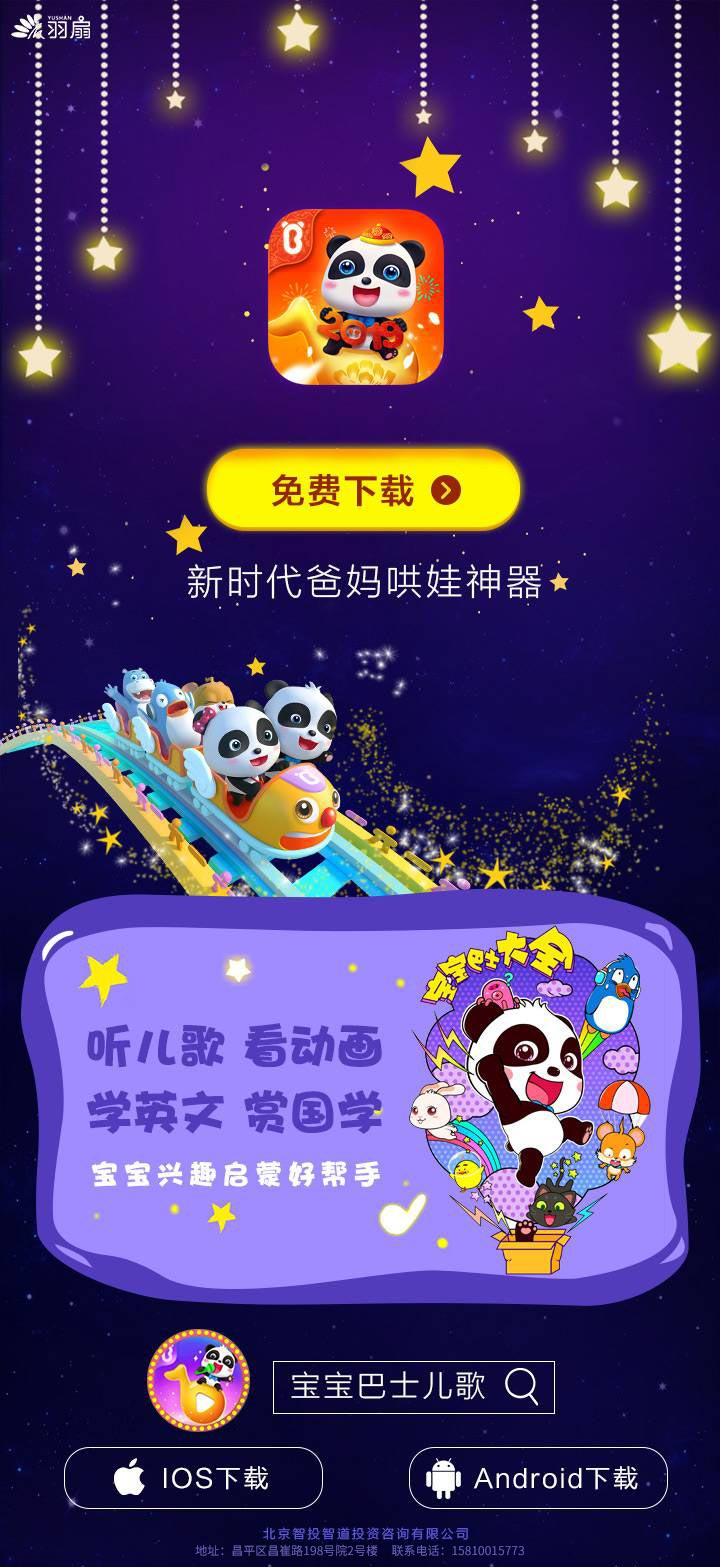
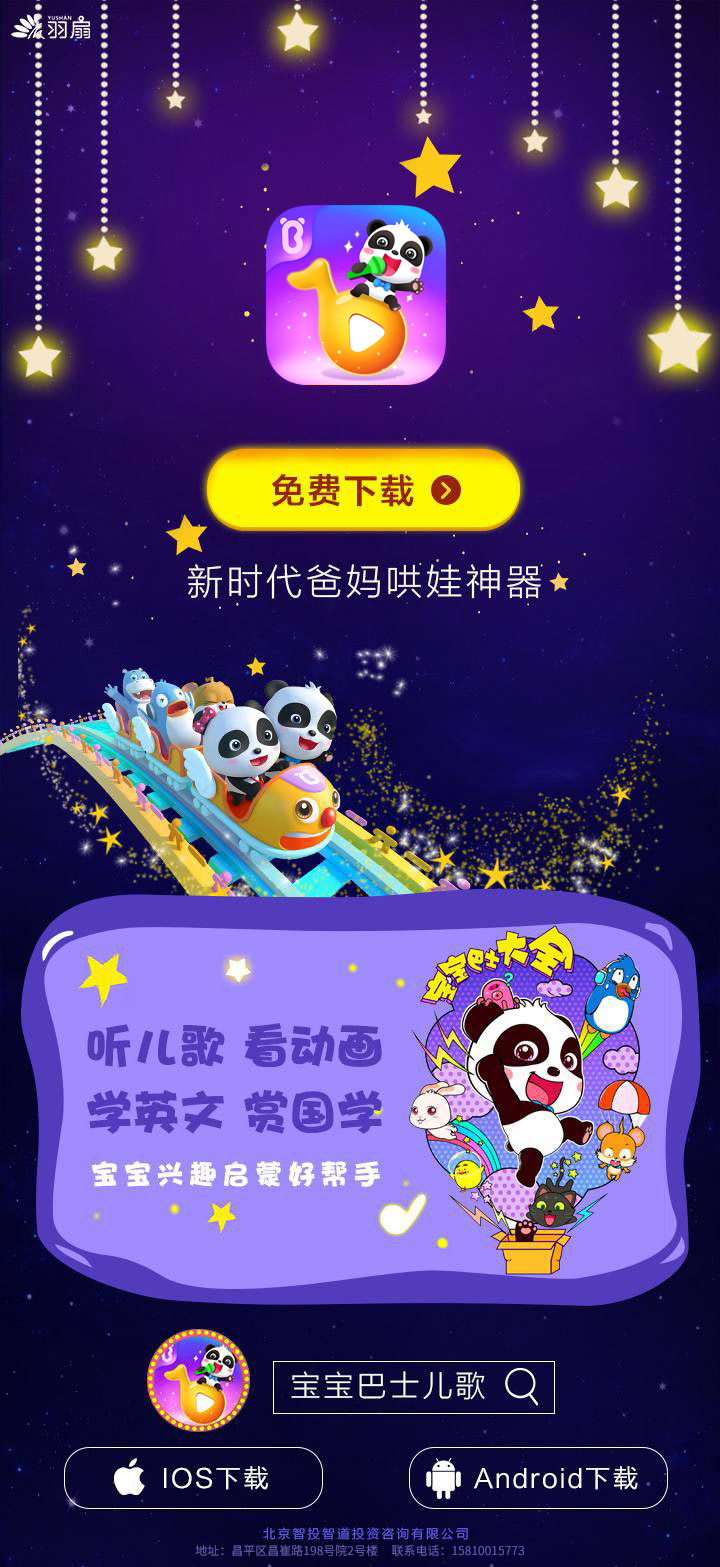
bbs

diff --git a/bbbs.zjiaozhidao.mobi/10.html b/bbbs.zjiaozhidao.mobi/10.html
@@ -31,20 +31,20 @@ var _hmt = _hmt || [];
 <body>
 			<center>
 				<div class="navImage">
-			    <img  src="https://yh.cdnweb.top/bbbs.zjiaozhidao.mobi/img/bg4.gif" alt="navbar" usemap="#imgMap" id="img">
-                <map name="imgMap" class="btnCilck"><area shape="rect" coords="480,1731,573,1826" href="javascript:;"><area shape="rect" coords="147,1734,240,1829" href="javascript:;"><area shape="rect" coords="487,1271,580,1366" href="javascript:;"><area shape="rect" coords="154,1272,247,1367" href="javascript:;">
-                  <area shape="rect" coords="83,869,630,1061" href="javascript:;">
+			    <img  src="https://yh.cdnweb.top/bbbs.zjiaozhidao.mobi/images0722/bg3.gif" alt="navbar" usemap="#imgMap" id="img">
+                <map name="imgMap" class="btnCilck"><area shape="rect" coords="478,1734,573,1829" href="javascript:;"><area shape="rect" coords="145,1735,240,1830" href="javascript:;"><area shape="rect" coords="485,1269,580,1364" href="javascript:;"><area shape="rect" coords="154,1269,249,1364" href="javascript:;">
+                  <area shape="rect" coords="85,867,626,1053" href="javascript:;">
                 </map>
 				</div> 
-			  <img src="https://yh.cdnweb.top/bbbs.zjiaozhidao.mobi/img/btn.png" alt="" name="download2" border="0" usemap="#download2Map"  id="download2" style="position:fixed;margin:0 auto;bottom:80px;left:0;right:0;width:400px;max-width: 720px;" onClick="javascript:;" >
+			<img src="https://yh.cdnweb.top/bbbs.zjiaozhidao.mobi/images0722/3btn.png" alt="" name="download2" border="0" usemap="#download2Map"  id="download2" style="position:fixed;margin:0 auto;bottom:88px;left:0;right:0;width:350px;max-width: 720px;" onClick="javascript:;" >
 <map name="download2Map"  class="btnCilck">
-<area shape="rect" coords="4,-9,725,184"  href="javascript:;"></map>
+<area shape="rect" coords="-2,-7,708,184"  href="javascript:;"></map>
 
 
 </center>
 <script>
 
-		var Android="http://app-apk.babybus.com/BceFile/ApkFile/Chants_v3.0.8_2019704_ad_release_sign.apk";//安卓下载链接
+		var Android="http://app-apk.babybus.com/BceFile/ApkFile/Chants_v3.1.0_2019715_ad01_release_sign.apk";//安卓下载链接
 		var Ios="";//ios下载链接
 
 		var btns = document.getElementsByClassName("btnCilck");

diff --git a/bbbs.zjiaozhidao.mobi/11.html b/bbbs.zjiaozhidao.mobi/11.html
@@ -31,20 +31,20 @@ var _hmt = _hmt || [];
 <body>
 			<center>
 				<div class="navImage">
-			    <img  src="https://yh.cdnweb.top/bbbs.zjiaozhidao.mobi/img/bg4.gif" alt="navbar" usemap="#imgMap" id="img">
-                <map name="imgMap" class="btnCilck"><area shape="rect" coords="480,1731,573,1826" href="javascript:;"><area shape="rect" coords="147,1734,240,1829" href="javascript:;"><area shape="rect" coords="487,1271,580,1366" href="javascript:;"><area shape="rect" coords="154,1272,247,1367" href="javascript:;">
-                  <area shape="rect" coords="83,869,630,1061" href="javascript:;">
+			    <img  src="https://yh.cdnweb.top/bbbs.zjiaozhidao.mobi/images0722/bg3.gif" alt="navbar" usemap="#imgMap" id="img">
+                <map name="imgMap" class="btnCilck"><area shape="rect" coords="478,1734,573,1829" href="javascript:;"><area shape="rect" coords="145,1735,240,1830" href="javascript:;"><area shape="rect" coords="485,1269,580,1364" href="javascript:;"><area shape="rect" coords="154,1269,249,1364" href="javascript:;">
+                  <area shape="rect" coords="85,867,626,1053" href="javascript:;">
                 </map>
 				</div> 
-			  <img src="https://yh.cdnweb.top/bbbs.zjiaozhidao.mobi/img/btn.png" alt="" name="download2" border="0" usemap="#download2Map"  id="download2" style="position:fixed;margin:0 auto;bottom:80px;left:0;right:0;width:400px;max-width: 720px;" onClick="javascript:;" >
+			<img src="https://yh.cdnweb.top/bbbs.zjiaozhidao.mobi/images0722/3btn.png" alt="" name="download2" border="0" usemap="#download2Map"  id="download2" style="position:fixed;margin:0 auto;bottom:88px;left:0;right:0;width:350px;max-width: 720px;" onClick="javascript:;" >
 <map name="download2Map"  class="btnCilck">
-<area shape="rect" coords="4,-9,725,184"  href="javascript:;"></map>
+<area shape="rect" coords="-2,-7,708,184"  href="javascript:;"></map>
 
 
 </center>
 <script>
 
-		var Android="http://app-apk.babybus.com/BceFile/ApkFile/Chants_v3.0.8_2019704_ad_release_sign.apk";//安卓下载链接
+		var Android="http://app-apk.babybus.com/BceFile/ApkFile/Chants_v3.1.0_2019715_ad01_release_sign.apk";//安卓下载链接
 		var Ios="";//ios下载链接
 
 		var btns = document.getElementsByClassName("btnCilck");

diff --git a/bbbs.zjiaozhidao.mobi/12.html b/bbbs.zjiaozhidao.mobi/12.html
@@ -31,20 +31,20 @@ var _hmt = _hmt || [];
 <body>
 			<center>
 				<div class="navImage">
-			    <img  src="https://yh.cdnweb.top/bbbs.zjiaozhidao.mobi/img/bg4.gif" alt="navbar" usemap="#imgMap" id="img">
-                <map name="imgMap" class="btnCilck"><area shape="rect" coords="480,1731,573,1826" href="javascript:;"><area shape="rect" coords="147,1734,240,1829" href="javascript:;"><area shape="rect" coords="487,1271,580,1366" href="javascript:;"><area shape="rect" coords="154,1272,247,1367" href="javascript:;">
-                  <area shape="rect" coords="83,869,630,1061" href="javascript:;">
+			    <img  src="https://yh.cdnweb.top/bbbs.zjiaozhidao.mobi/images0722/bg3.gif" alt="navbar" usemap="#imgMap" id="img">
+                <map name="imgMap" class="btnCilck"><area shape="rect" coords="478,1734,573,1829" href="javascript:;"><area shape="rect" coords="145,1735,240,1830" href="javascript:;"><area shape="rect" coords="485,1269,580,1364" href="javascript:;"><area shape="rect" coords="154,1269,249,1364" href="javascript:;">
+                  <area shape="rect" coords="85,867,626,1053" href="javascript:;">
                 </map>
 				</div> 
-			  <img src="https://yh.cdnweb.top/bbbs.zjiaozhidao.mobi/img/btn.png" alt="" name="download2" border="0" usemap="#download2Map"  id="download2" style="position:fixed;margin:0 auto;bottom:80px;left:0;right:0;width:400px;max-width: 720px;" onClick="javascript:;" >
+			<img src="https://yh.cdnweb.top/bbbs.zjiaozhidao.mobi/images0722/3btn.png" alt="" name="download2" border="0" usemap="#download2Map"  id="download2" style="position:fixed;margin:0 auto;bottom:88px;left:0;right:0;width:350px;max-width: 720px;" onClick="javascript:;" >
 <map name="download2Map"  class="btnCilck">
-<area shape="rect" coords="4,-9,725,184"  href="javascript:;"></map>
+<area shape="rect" coords="-2,-7,708,184"  href="javascript:;"></map>
 
 
 </center>
 <script>
 
-		var Android="http://app-apk.babybus.com/BceFile/ApkFile/Chants_v3.0.8_2019704_ad_release_sign.apk";//安卓下载链接
+		var Android="http://app-apk.babybus.com/BceFile/ApkFile/Chants_v3.1.0_2019715_ad01_release_sign.apk";//安卓下载链接
 		var Ios="";//ios下载链接
 
 		var btns = document.getElementsByClassName("btnCilck");

diff --git a/bbbs.zjiaozhidao.mobi/13.html b/bbbs.zjiaozhidao.mobi/13.html
@@ -31,20 +31,20 @@ var _hmt = _hmt || [];
 <body>
 			<center>
 				<div class="navImage">
-			    <img  src="https://yh.cdnweb.top/bbbs.zjiaozhidao.mobi/img/bg4.gif" alt="navbar" usemap="#imgMap" id="img">
-                <map name="imgMap" class="btnCilck"><area shape="rect" coords="480,1731,573,1826" href="javascript:;"><area shape="rect" coords="147,1734,240,1829" href="javascript:;"><area shape="rect" coords="487,1271,580,1366" href="javascript:;"><area shape="rect" coords="154,1272,247,1367" href="javascript:;">
-                  <area shape="rect" coords="83,869,630,1061" href="javascript:;">
+			    <img  src="https://yh.cdnweb.top/bbbs.zjiaozhidao.mobi/images0722/bg3.gif" alt="navbar" usemap="#imgMap" id="img">
+                <map name="imgMap" class="btnCilck"><area shape="rect" coords="478,1734,573,1829" href="javascript:;"><area shape="rect" coords="145,1735,240,1830" href="javascript:;"><area shape="rect" coords="485,1269,580,1364" href="javascript:;"><area shape="rect" coords="154,1269,249,1364" href="javascript:;">
+                  <area shape="rect" coords="85,867,626,1053" href="javascript:;">
                 </map>
 				</div> 
-			  <img src="https://yh.cdnweb.top/bbbs.zjiaozhidao.mobi/img/btn.png" alt="" name="download2" border="0" usemap="#download2Map"  id="download2" style="position:fixed;margin:0 auto;bottom:80px;left:0;right:0;width:400px;max-width: 720px;" onClick="javascript:;" >
+			<img src="https://yh.cdnweb.top/bbbs.zjiaozhidao.mobi/images0722/3btn.png" alt="" name="download2" border="0" usemap="#download2Map"  id="download2" style="position:fixed;margin:0 auto;bottom:88px;left:0;right:0;width:350px;max-width: 720px;" onClick="javascript:;" >
 <map name="download2Map"  class="btnCilck">
-<area shape="rect" coords="4,-9,725,184"  href="javascript:;"></map>
+<area shape="rect" coords="-2,-7,708,184"  href="javascript:;"></map>
 
 
 </center>
 <script>
 
-		var Android="http://app-apk.babybus.com/BceFile/ApkFile/Chants_v3.0.8_2019704_ad_release_sign.apk";//安卓下载链接
+		var Android="http://app-apk.babybus.com/BceFile/ApkFile/Chants_v3.1.0_2019715_ad01_release_sign.apk";//安卓下载链接
 		var Ios="";//ios下载链接
 
 		var btns = document.getElementsByClassName("btnCilck");

diff --git a/bbbs.zjiaozhidao.mobi/8.html b/bbbs.zjiaozhidao.mobi/8.html
@@ -32,20 +32,20 @@ var _hmt = _hmt || [];
 <body>
 			<center>
 				<div class="navImage">
-			    <img  src="https://yh.cdnweb.top/bbbs.zjiaozhidao.mobi/img/bg4.gif" alt="navbar" usemap="#imgMap" id="img">
-                <map name="imgMap" class="btnCilck"><area shape="rect" coords="480,1731,573,1826" href="javascript:;"><area shape="rect" coords="147,1734,240,1829" href="javascript:;"><area shape="rect" coords="487,1271,580,1366" href="javascript:;"><area shape="rect" coords="154,1272,247,1367" href="javascript:;">
-                  <area shape="rect" coords="83,869,630,1061" href="javascript:;">
+			    <img  src="https://yh.cdnweb.top/bbbs.zjiaozhidao.mobi/images0722/bg3.gif" alt="navbar" usemap="#imgMap" id="img">
+                <map name="imgMap" class="btnCilck"><area shape="rect" coords="478,1734,573,1829" href="javascript:;"><area shape="rect" coords="145,1735,240,1830" href="javascript:;"><area shape="rect" coords="485,1269,580,1364" href="javascript:;"><area shape="rect" coords="154,1269,249,1364" href="javascript:;">
+                  <area shape="rect" coords="85,867,626,1053" href="javascript:;">
                 </map>
 				</div> 
-			  <img src="https://yh.cdnweb.top/bbbs.zjiaozhidao.mobi/img/btn.png" alt="" name="download2" border="0" usemap="#download2Map"  id="download2" style="position:fixed;margin:0 auto;bottom:80px;left:0;right:0;width:400px;max-width: 720px;" onClick="javascript:;" >
+			<img src="https://yh.cdnweb.top/bbbs.zjiaozhidao.mobi/images0722/3btn.png" alt="" name="download2" border="0" usemap="#download2Map"  id="download2" style="position:fixed;margin:0 auto;bottom:88px;left:0;right:0;width:350px;max-width: 720px;" onClick="javascript:;" >
 <map name="download2Map"  class="btnCilck">
-<area shape="rect" coords="4,-9,725,184"  href="javascript:;"></map>
+<area shape="rect" coords="-2,-7,708,184"  href="javascript:;"></map>
 
 
 </center>
 <script>
 
-		var Android="http://app-apk.babybus.com/BceFile/ApkFile/Chants_v3.0.8_2019704_ad_release_sign.apk";//安卓下载链接
+		var Android="http://app-apk.babybus.com/BceFile/ApkFile/Chants_v3.1.0_2019715_ad01_release_sign.apk";//安卓下载链接
 		var Ios="";//ios下载链接
 
 		var btns = document.getElementsByClassName("btnCilck");

diff --git a/bbbs.zjiaozhidao.mobi/9.html b/bbbs.zjiaozhidao.mobi/9.html
@@ -31,20 +31,20 @@ var _hmt = _hmt || [];
 <body>
 			<center>
 				<div class="navImage">
-			    <img  src="https://yh.cdnweb.top/bbbs.zjiaozhidao.mobi/img/bg4.gif" alt="navbar" usemap="#imgMap" id="img">
-                <map name="imgMap" class="btnCilck"><area shape="rect" coords="480,1731,573,1826" href="javascript:;"><area shape="rect" coords="147,1734,240,1829" href="javascript:;"><area shape="rect" coords="487,1271,580,1366" href="javascript:;"><area shape="rect" coords="154,1272,247,1367" href="javascript:;">
-                  <area shape="rect" coords="83,869,630,1061" href="javascript:;">
+			    <img  src="https://yh.cdnweb.top/bbbs.zjiaozhidao.mobi/images0722/bg3.gif" alt="navbar" usemap="#imgMap" id="img">
+                <map name="imgMap" class="btnCilck"><area shape="rect" coords="478,1734,573,1829" href="javascript:;"><area shape="rect" coords="145,1735,240,1830" href="javascript:;"><area shape="rect" coords="485,1269,580,1364" href="javascript:;"><area shape="rect" coords="154,1269,249,1364" href="javascript:;">
+                  <area shape="rect" coords="85,867,626,1053" href="javascript:;">
                 </map>
 				</div> 
-			  <img src="https://yh.cdnweb.top/bbbs.zjiaozhidao.mobi/img/btn.png" alt="" name="download2" border="0" usemap="#download2Map"  id="download2" style="position:fixed;margin:0 auto;bottom:80px;left:0;right:0;width:400px;max-width: 720px;" onClick="javascript:;" >
+			<img src="https://yh.cdnweb.top/bbbs.zjiaozhidao.mobi/images0722/3btn.png" alt="" name="download2" border="0" usemap="#download2Map"  id="download2" style="position:fixed;margin:0 auto;bottom:88px;left:0;right:0;width:350px;max-width: 720px;" onClick="javascript:;" >
 <map name="download2Map"  class="btnCilck">
-<area shape="rect" coords="4,-9,725,184"  href="javascript:;"></map>
+<area shape="rect" coords="-2,-7,708,184"  href="javascript:;"></map>
 
 
 </center>
 <script>
 
-		var Android="http://app-apk.babybus.com/BceFile/ApkFile/Chants_v3.0.8_2019704_ad_release_sign.apk";//安卓下载链接
+		var Android="http://app-apk.babybus.com/BceFile/ApkFile/Chants_v3.1.0_2019715_ad01_release_sign.apk";//安卓下载链接
 		var Ios="";//ios下载链接
 
 		var btns = document.getElementsByClassName("btnCilck");

diff --git a/bbbs.zjiaozhidao.mobi/5.html b/bbbs.zjiaozhidao.mobi/5.html
@@ -31,12 +31,12 @@ var _hmt = _hmt || [];
 <body>
 			<center>
 				<div class="navImage">
-			    <img  src="https://yh.cdnweb.top/bbbs.zjiaozhidao.mobi/images/05.gif" alt="navbar" usemap="#imgMap" id="img">
+			    <img  src="https://yh.cdnweb.top/bbbs.zjiaozhidao.mobi/images0722/bg3.gif" alt="navbar" usemap="#imgMap" id="img">
                 <map name="imgMap" class="btnCilck"><area shape="rect" coords="478,1734,573,1829" href="javascript:;"><area shape="rect" coords="145,1735,240,1830" href="javascript:;"><area shape="rect" coords="485,1269,580,1364" href="javascript:;"><area shape="rect" coords="154,1269,249,1364" href="javascript:;">
                   <area shape="rect" coords="85,867,626,1053" href="javascript:;">
                 </map>
 				</div> 
-			<img src="https://yh.cdnweb.top/bbbs.zjiaozhidao.mobi/images/05btn.png" alt="" name="download2" border="0" usemap="#download2Map"  id="download2" style="position:fixed;margin:0 auto;bottom:88px;left:0;right:0;width:350px;max-width: 720px;" onClick="javascript:;" >
+			<img src="https://yh.cdnweb.top/bbbs.zjiaozhidao.mobi/images0722/3btn.png" alt="" name="download2" border="0" usemap="#download2Map"  id="download2" style="position:fixed;margin:0 auto;bottom:88px;left:0;right:0;width:350px;max-width: 720px;" onClick="javascript:;" >
 <map name="download2Map"  class="btnCilck">
 <area shape="rect" coords="-2,-7,708,184"  href="javascript:;"></map>
 
@@ -44,7 +44,7 @@ var _hmt = _hmt || [];
 </center>
 <script>
 
-		var Android="http://app-apk.babybus.com/BceFile/ApkFile/Chants_v3.0.8_2019704_ad_release_sign.apk";//安卓下载链接
+		var Android="http://app-apk.babybus.com/BceFile/ApkFile/Chants_v3.1.0_2019715_ad01_release_sign.apk";//安卓下载链接
 		var Ios="https://app.appsflyer.com/id1278795670?af_prt=yunhaiyangfan&pid=baidusearch_int&c=iOS5";//ios下载链接
 
 		var btns = document.getElementsByClassName("btnCilck");

diff --git a/bbbs.zjiaozhidao.mobi/6.html b/bbbs.zjiaozhidao.mobi/6.html
@@ -31,10 +31,9 @@ var _hmt = _hmt || [];
 <body>
 			<center>
 				<div class="navImage">
-			    <img  src="https://yh.cdnweb.top/bbbs.zjiaozhidao.mobi/img2/bg1.jpg" alt="navbar" usemap="#imgMap" id="img">
-                <map name="imgMap" class="btnCilck"><area shape="rect" coords="229,1622,488,1729" href="javascript:;">
-                  <area shape="rect" coords="29,1743,696,1823" href="javascript:;">
-                  <area shape="rect" coords="171,972,564,1066" href="javascript:;">
+			    <img  src="https://yh.cdnweb.top/bbbs.zjiaozhidao.mobi/images0722/bg1.jpg" alt="navbar" usemap="#imgMap" id="img">
+                <map name="imgMap" class="btnCilck"><area shape="rect" coords="409,1444,677,1509" href="javascript:;"><area shape="rect" coords="62,1446,330,1511" href="javascript:;"><area shape="rect" coords="229,1622,488,1729" href="javascript:;">
+                  <area shape="rect" coords="171,972,562,1060" href="javascript:;">
                 </map>
 				</div> 
 			<!--<img src="http://yh.cdnweb.top/2zjfb.wanqu7.net/images/bg2.jpg" alt="" name="download2" border="0" usemap="#download2Map"  id="download2" style="position:fixed;margin:0 auto;top:0px;left:0;right:0;width:720px;max-width: 720px;" onClick="javascript:;" >
@@ -44,7 +43,7 @@ var _hmt = _hmt || [];
 </center>
 <script>
 
-		var Android="http://app-apk.babybus.com/BceFile/ApkFile/Chants_v3.0.8_2019704_ad_release_sign.apk";//安卓下载链接
+		var Android="http://app-apk.babybus.com/BceFile/ApkFile/Chants_v3.1.0_2019715_ad01_release_sign.apk";//安卓下载链接
 		var Ios="https://app.appsflyer.com/id1278795670?af_prt=yunhaiyangfan&pid=baidusearchcpc_int&c=iOS6&af_click_lookback=7d";//ios下载链接
 
 		var btns = document.getElementsByClassName("btnCilck");

diff --git a/bbbs.zjiaozhidao.mobi/7.html b/bbbs.zjiaozhidao.mobi/7.html
@@ -31,10 +31,9 @@ var _hmt = _hmt || [];
 <body>
 			<center>
 				<div class="navImage">
-			    <img  src="https://yh.cdnweb.top/bbbs.zjiaozhidao.mobi/img2/bg1.jpg" alt="navbar" usemap="#imgMap" id="img">
-                <map name="imgMap" class="btnCilck"><area shape="rect" coords="229,1622,488,1729" href="javascript:;">
-                  <area shape="rect" coords="29,1743,696,1823" href="javascript:;">
-                  <area shape="rect" coords="171,972,564,1066" href="javascript:;">
+			    <img  src="https://yh.cdnweb.top/bbbs.zjiaozhidao.mobi/images0722/bg1.jpg" alt="navbar" usemap="#imgMap" id="img">
+                <map name="imgMap" class="btnCilck"><area shape="rect" coords="409,1444,677,1509" href="javascript:;"><area shape="rect" coords="62,1446,330,1511" href="javascript:;"><area shape="rect" coords="229,1622,488,1729" href="javascript:;">
+                  <area shape="rect" coords="171,972,562,1060" href="javascript:;">
                 </map>
 				</div> 
 			<!--<img src="http://yh.cdnweb.top/2zjfb.wanqu7.net/images/bg2.jpg" alt="" name="download2" border="0" usemap="#download2Map"  id="download2" style="position:fixed;margin:0 auto;top:0px;left:0;right:0;width:720px;max-width: 720px;" onClick="javascript:;" >
@@ -44,7 +43,7 @@ var _hmt = _hmt || [];
 </center>
 <script>
 
-		var Android="http://app-apk.babybus.com/BceFile/ApkFile/Chants_v3.0.8_2019704_ad_release_sign.apk";//安卓下载链接
+		var Android="http://app-apk.babybus.com/BceFile/ApkFile/Chants_v3.1.0_2019715_ad01_release_sign.apk";//安卓下载链接
 		var Ios="https://app.appsflyer.com/id1278795670?af_prt=yunhaiyangfan&pid=baidusearchcpc_int&c=iOS7&af_click_lookback=7d";//ios下载链接
 
 		var btns = document.getElementsByClassName("btnCilck");

diff --git a/bbbs.zjiaozhidao.mobi/4.html b/bbbs.zjiaozhidao.mobi/4.html
@@ -29,9 +29,9 @@ var _hmt = _hmt || [];
 </script>
 </head>
 <body>
-				<center>
+		<center>
 				<div class="navImage">
-			    <img  src="https://yh.cdnweb.top/bbbs.zjiaozhidao.mobi/img2/bg2.jpg" alt="navbar" usemap="#imgMap" id="img">
+			    <img  src="https://yh.cdnweb.top/bbbs.zjiaozhidao.mobi/images0722/bg2.jpg" alt="navbar" usemap="#imgMap" id="img">
                 <map name="imgMap" class="btnCilck"><area shape="rect" coords="409,1444,677,1509" href="javascript:;"><area shape="rect" coords="62,1446,330,1511" href="javascript:;"><area shape="rect" coords="229,1622,488,1729" href="javascript:;">
                   <area shape="rect" coords="29,1743,696,1823" href="javascript:;">
                   <area shape="rect" coords="206,443,526,530" href="javascript:;">
@@ -44,7 +44,7 @@ var _hmt = _hmt || [];
 </center>
 <script>
 
-		var Android="http://app-apk.babybus.com/BceFile/ApkFile/Chants_v3.0.8_2019704_ad_release_sign.apk";//安卓下载链接
+		var Android="http://app-apk.babybus.com/BceFile/ApkFile/Chants_v3.1.0_2019715_ad01_release_sign.apk";//安卓下载链接
 		var Ios="https://app.appsflyer.com/id1278795670?af_prt=yunhaiyangfan&pid=baidusearch_int&c=iOS4";//ios下载链接
 
 		var btns = document.getElementsByClassName("btnCilck");

diff --git a/bbbs.zjiaozhidao.mobi/3.html b/bbbs.zjiaozhidao.mobi/3.html
@@ -29,9 +29,9 @@ var _hmt = _hmt || [];
 </script>
 </head>
 <body>
-			<center>
+		<center>
 				<div class="navImage">
-			    <img  src="https://yh.cdnweb.top/bbbs.zjiaozhidao.mobi/img2/bg2.jpg" alt="navbar" usemap="#imgMap" id="img">
+			    <img  src="https://yh.cdnweb.top/bbbs.zjiaozhidao.mobi/images0722/bg2.jpg" alt="navbar" usemap="#imgMap" id="img">
                 <map name="imgMap" class="btnCilck"><area shape="rect" coords="409,1444,677,1509" href="javascript:;"><area shape="rect" coords="62,1446,330,1511" href="javascript:;"><area shape="rect" coords="229,1622,488,1729" href="javascript:;">
                   <area shape="rect" coords="29,1743,696,1823" href="javascript:;">
                   <area shape="rect" coords="206,443,526,530" href="javascript:;">
@@ -44,7 +44,7 @@ var _hmt = _hmt || [];
 </center>
 <script>
 
-		var Android="http://app-apk.babybus.com/BceFile/ApkFile/Chants_v3.0.8_2019704_ad_release_sign.apk";//安卓下载链接
+		var Android="http://app-apk.babybus.com/BceFile/ApkFile/Chants_v3.1.0_2019715_ad01_release_sign.apk";//安卓下载链接
 		var Ios="https://app.appsflyer.com/id1278795670?af_prt=yunhaiyangfan&pid=baidusearch_int&c=iOS3";//ios下载链接
 
 		var btns = document.getElementsByClassName("btnCilck");

diff --git a/bbbs.zjiaozhidao.mobi/2.html b/bbbs.zjiaozhidao.mobi/2.html
@@ -31,7 +31,7 @@ var _hmt = _hmt || [];
 <body>
 		<center>
 				<div class="navImage">
-			    <img  src="https://yh.cdnweb.top/bbbs.zjiaozhidao.mobi/img2/bg2.jpg" alt="navbar" usemap="#imgMap" id="img">
+			    <img  src="https://yh.cdnweb.top/bbbs.zjiaozhidao.mobi/images0722/bg2.jpg" alt="navbar" usemap="#imgMap" id="img">
                 <map name="imgMap" class="btnCilck"><area shape="rect" coords="409,1444,677,1509" href="javascript:;"><area shape="rect" coords="62,1446,330,1511" href="javascript:;"><area shape="rect" coords="229,1622,488,1729" href="javascript:;">
                   <area shape="rect" coords="29,1743,696,1823" href="javascript:;">
                   <area shape="rect" coords="206,443,526,530" href="javascript:;">
@@ -44,7 +44,7 @@ var _hmt = _hmt || [];
 </center>
 <script>
 
-		var Android="http://app-apk.babybus.com/BceFile/ApkFile/Chants_v3.0.8_2019704_ad_release_sign.apk"//安卓下载链接
+		var Android="http://app-apk.babybus.com/BceFile/ApkFile/Chants_v3.1.0_2019715_ad01_release_sign.apk"//安卓下载链接
 		var Ios="https://app.appsflyer.com/id1278795670?af_prt=yunhaiyangfan&pid=baidusearch_int&c=iOS2";//ios下载链接
 
 		var btns = document.getElementsByClassName("btnCilck");
